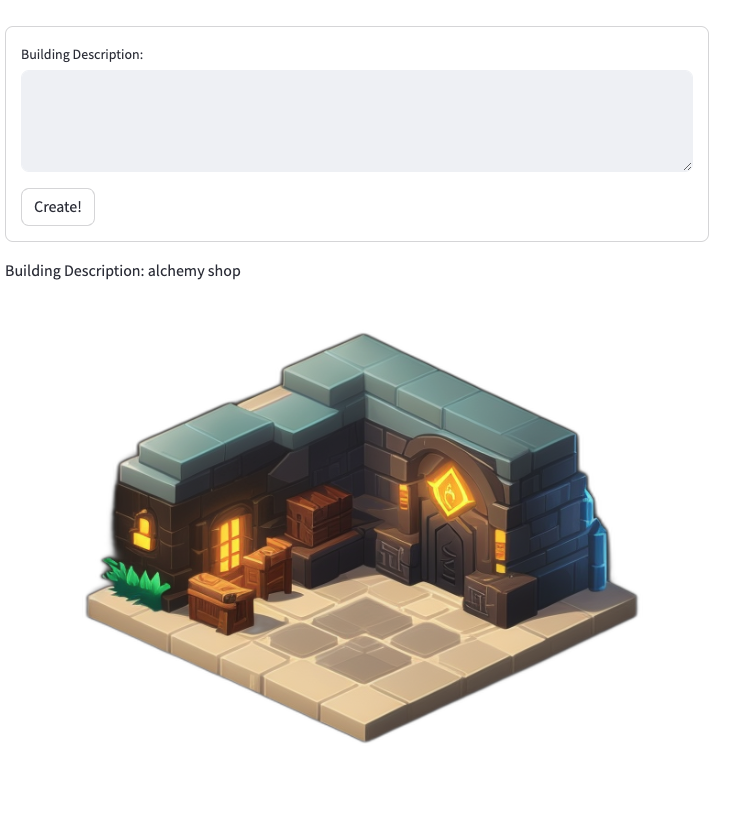
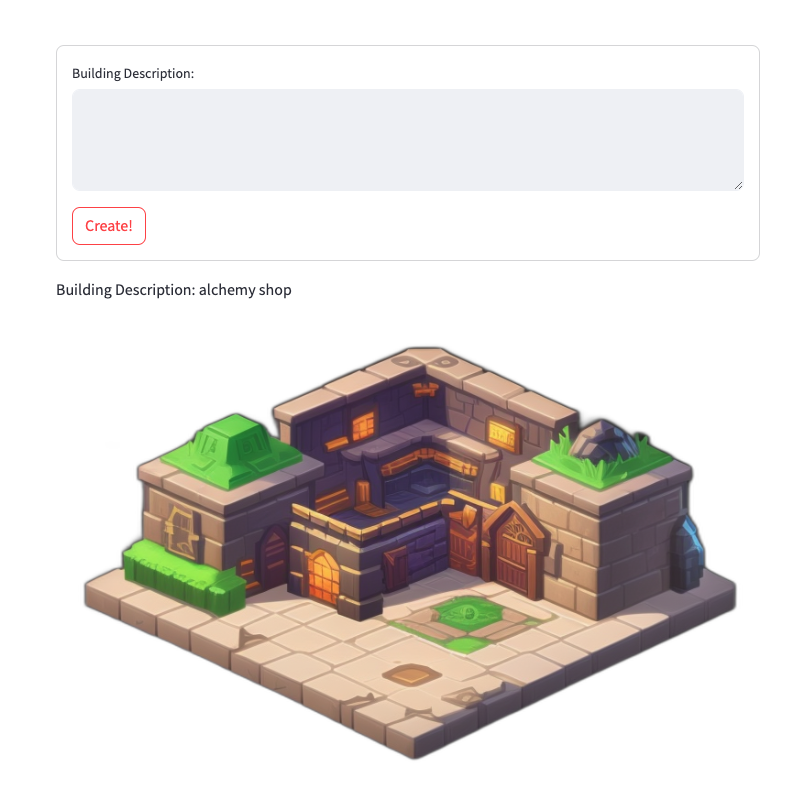
upadted lora

Changed region(s): [[0.0938, 0.4062, 0.9375, 0.9688], [0.0, 0.2188, 0.375, 0.375], [0.0312, 0.0312, 0.2188, 0.0938]]

diff --git a/app.py b/app.py
@@ -37,12 +37,12 @@ def main():
                 st.write(f"Building Description: {user_input}")
 
                 #Build the prompt
-                prompt = "game icon,Isometric_Setting,building exterior,(black background),<lora:Stylized_ Setting SDXL:4>,"
+                prompt = "game icon,Isometric_Setting,(building exterior),(black background),<lora:Stylized_Setting_SDXL:2>,"
                 prompt += user_input
 
                 #create the character picture
                 result = api.txt2img(prompt=prompt,
-                    negative_prompt="out of frame,cut off",
+                    negative_prompt="out of frame,cut off,blurry",
                     cfg_scale=7,
                     width=768,
                     height=512,
